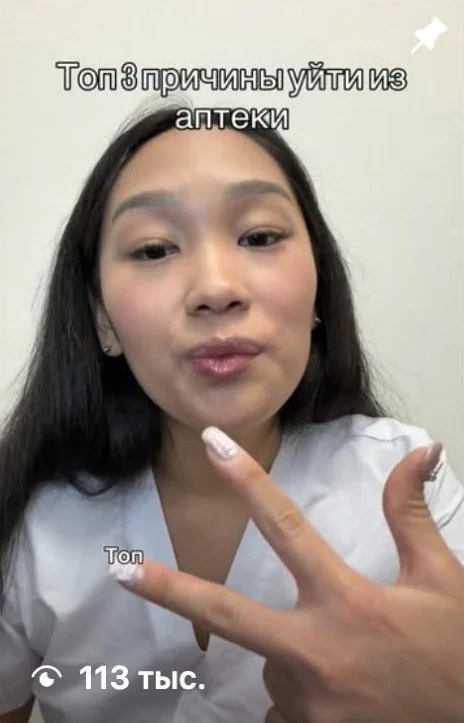
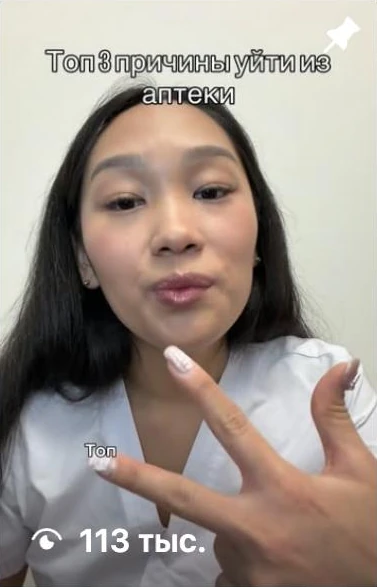
Тест дизайна: в кейсе Сайхо скрины рилсов со счётчиком просмотров

diff --git a/bolshaya-igra-test/index.html b/bolshaya-igra-test/index.html
@@ -9,7 +9,7 @@
 <link rel="preconnect" href="https://fonts.googleapis.com">
 <link rel="preconnect" href="https://fonts.gstatic.com" crossorigin>
 <link href="https://fonts.googleapis.com/css2?family=Herr+Von+Muellerhoff&family=Manrope:wght@400;500;600;700;800&family=Oranienbaum&display=swap" rel="stylesheet">
-<link rel="stylesheet" href="style.css?v=60">
+<link rel="stylesheet" href="style.css?v=61">
 </head>
 <body>
 
@@ -330,10 +330,10 @@
           </ul>
           <p class="case__sub">Её рилсы</p>
           <ul class="case__reels">
-            <li><img src="../assets/case-saikho-r1.webp" alt="Рилс Сайхо, 248 тысяч просмотров" width="464" height="723" loading="lazy"><p><b>248 тыс.</b>просмотров</p></li>
-            <li><img src="../assets/case-saikho-r2.webp" alt="Рилс Сайхо, 191 тысяча просмотров" width="750" height="1342" loading="lazy"><p><b>191 тыс.</b>просмотров</p></li>
-            <li><img src="../assets/case-saikho-r3.webp" alt="Рилс Сайхо, 113 тысяч просмотров" width="464" height="723" loading="lazy"><p><b>113 тыс.</b>просмотров</p></li>
-            <li><img src="../assets/case-saikho-r4.webp" alt="Рилс Сайхо, 30 тысяч просмотров" width="672" height="1197" loading="lazy"><p><b>30 тыс.</b>просмотров</p></li>
+            <li><img src="../assets/case-saikho-r1.webp" alt="Рилс Сайхо, на скрине 248 тысяч просмотров" width="377" height="587" loading="lazy"></li>
+            <li><img src="../assets/case-saikho-r2.webp" alt="Рилс Сайхо, на скрине 125 тысяч просмотров" width="377" height="587" loading="lazy"></li>
+            <li><img src="../assets/case-saikho-r3.webp" alt="Рилс Сайхо, на скрине 113 тысяч просмотров" width="377" height="587" loading="lazy"></li>
+            <li><img src="../assets/case-saikho-r4.webp" alt="Рилс Сайхо «450 подписчиков! Празднуем»" width="376" height="587" loading="lazy"></li>
           </ul>
           <p class="case__sub">Сайхо в чате Игры</p>
           <div class="case__chat">

diff --git a/bolshaya-igra-test/style.css b/bolshaya-igra-test/style.css
@@ -309,10 +309,9 @@ h2 em, h3 em { font-style: normal; white-space: nowrap; color: var(--red-d); }
 .case__list li::before { content: "—"; position: absolute; left: 0; color: rgba(240, 231, 219, .5); }
 .case__text b, .case__list b { color: #FFF8EE; font-weight: 800; }
 .case__sub { margin-top: 24px; padding-top: 18px; border-top: 1px solid var(--line-d); font: 700 11.5px/1.4 var(--f-body); letter-spacing: .14em; text-transform: uppercase; color: rgba(240, 231, 219, .7); }
-.case__reels { display: grid; grid-template-columns: 1fr 1fr; gap: 14px 12px; margin-top: 14px; }
-.case__reels img { width: 100%; aspect-ratio: 9 / 14; object-fit: cover; object-position: 50% 0; border-radius: 16px; border: 1px solid rgba(240, 231, 219, .2); }
-.case__reels p { margin-top: 9px; font: 700 10.5px/1.3 var(--f-body); letter-spacing: .12em; text-transform: uppercase; color: rgba(240, 231, 219, .75); }
-.case__reels b { display: block; margin-bottom: 3px; font: 400 28px/1 var(--f-display); letter-spacing: 0; color: #FFF8EE; }
+.case__reels { display: grid; grid-template-columns: 1fr 1fr; gap: 8px; margin: 14px -6px 0; }
+/* скрины из её профиля: счётчик просмотров стоит на самом кадре, поэтому кадр не обрезаем снизу */
+.case__reels img { width: 100%; aspect-ratio: 377 / 587; object-fit: cover; object-position: 50% 100%; border-radius: 14px; border: 1px solid rgba(240, 231, 219, .2); }
 .case__chat { display: grid; gap: 10px; margin-top: 14px; }
 .case__chat img { width: 100%; border-radius: 14px; }
 
@@ -452,8 +451,7 @@ details p { padding: 0 16px 18px; font-size: 16.5px; color: var(--on-d); }
   .cases__row { grid-auto-columns: 100%; gap: 20px; margin-inline: 0; padding-inline: 0; scroll-padding-inline: 0; }
   .case { padding: 30px 30px 28px; }
   .case__ava { width: 104px; height: 104px; }
-  .case__reels { grid-template-columns: repeat(4, 1fr); }
-  .case__reels b { font-size: 26px; }
+  .case__reels { gap: 12px; margin-inline: 0; }
   .why__answer { max-width: 860px; margin-inline: auto; padding: 32px 36px; }
   .pair { grid-template-columns: 1fr 1fr; gap: 16px; max-width: 860px; margin-inline: auto; }
   .reels { margin-top: 64px; }
